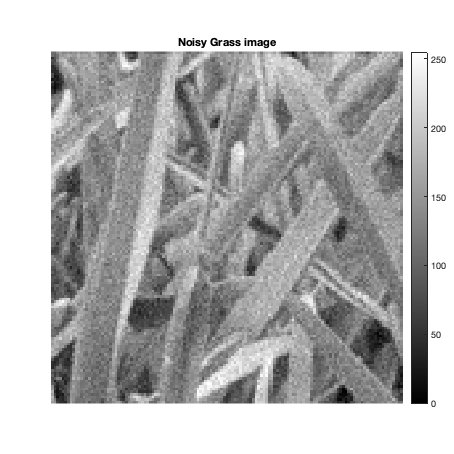
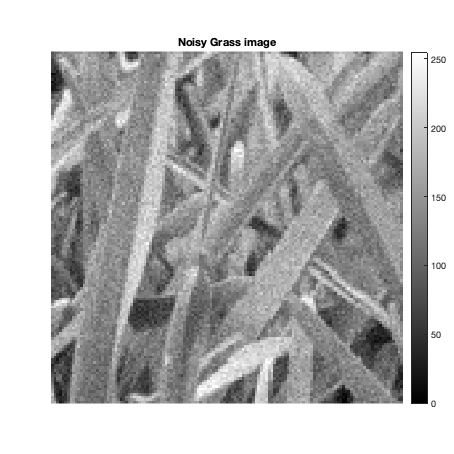
generated report for Q3

diff --git a/A2/3/code/html/myMainScript.html b/A2/3/code/html/myMainScript.html
@@ -76,44 +76,46 @@ noisy_im = myGaussianNoise(im);
 h = 13.5;
 [mask, filtered_im] = myPatchBasedFiltering(noisy_im, h);
 showBest(<span class="string">'Grass'</span>, im, noisy_im, filtered_im, mask);
-</pre><pre class="codeoutput">RMSD of noisy image = 11.766877
-RMSD of filtered image = 7.424392
+</pre><pre class="codeoutput">RMSD of noisy image = 11.823007
+RMSD of filtered image = 7.438951
 </pre><img vspace="5" hspace="5" src="myMainScript_01.png" alt=""> <img vspace="5" hspace="5" src="myMainScript_02.png" alt=""> <img vspace="5" hspace="5" src="myMainScript_03.png" alt=""> <img vspace="5" hspace="5" src="myMainScript_04.png" alt=""> <h2 id="4">Best values</h2><pre class="codeinput"><span class="comment">% For grass image, h = 13.5</span>
 <span class="comment">% optimal rmsd = 7.35</span>
 <span class="comment">% 0.9*h -&gt; rmsd = 7.79</span>
 <span class="comment">% 1.1*h -&gt; rmsd = 7.52</span>
 
 toc;
-</pre><pre class="codeoutput">Elapsed time is 28.364374 seconds.
-</pre><h2 id="5">Barbara image</h2><pre class="codeinput">im = load(<span class="string">"../data/barbara.mat"</span>).imageOrig;
-im = double(im) ;
+</pre><pre class="codeoutput">Elapsed time is 26.717334 seconds.
+</pre><h2 id="5">Barbara image</h2><pre class="codeinput">im = load(<span class="string">"../data/barbara.mat"</span>);
+im = double(im.imageOrig) ;
 im = myBlur(im);
 noisy_im = myGaussianNoise(im);
 h = 5.5;
 [mask, filtered_im] = myPatchBasedFiltering(noisy_im, h);
 showBest(<span class="string">'Barbara'</span>, im, noisy_im, filtered_im, mask);
-</pre><pre class="codeoutput error">Error: Functions cannot be indexed using {} or . indexing.
-
-Error in myMainScript (line 34)
-im = load("../data/barbara.mat").imageOrig;
-</pre><h2 id="6">Best values</h2><pre class="codeinput"><span class="comment">% Barbara, h = 5.5</span>
+</pre><pre class="codeoutput">RMSD of noisy image = 4.731886
+RMSD of filtered image = 2.707634
+</pre><img vspace="5" hspace="5" src="myMainScript_05.png" alt=""> <img vspace="5" hspace="5" src="myMainScript_06.png" alt=""> <img vspace="5" hspace="5" src="myMainScript_07.png" alt=""> <img vspace="5" hspace="5" src="myMainScript_08.png" alt=""> <h2 id="6">Best values</h2><pre class="codeinput"><span class="comment">% Barbara, h = 5.5</span>
 <span class="comment">% optimal rmsd = 2.69</span>
 <span class="comment">% 0.9*h -&gt; rmsd = 2.74</span>
 <span class="comment">% 1.1*h -&gt; rmsd = 2.73</span>
 
 toc;
+</pre><pre class="codeoutput">Elapsed time is 118.812019 seconds.
 </pre><h2 id="7">Honeycomb image</h2><pre class="codeinput">im = imread(<span class="string">"../data/honeyCombReal.png"</span>);
 im = double(im) ;
 noisy_im = myGaussianNoise(im);
 h = 15.0;
 [mask, filtered_im] = myPatchBasedFiltering(noisy_im, h);
 showBest(<span class="string">'Honeycomb'</span>, im, noisy_im, filtered_im, mask);
-</pre><h2 id="8">Best values</h2><pre class="codeinput"><span class="comment">% Honeycomb, h = 15.0</span>
+</pre><pre class="codeoutput">RMSD of noisy image = 12.690202
+RMSD of filtered image = 7.603023
+</pre><img vspace="5" hspace="5" src="myMainScript_09.png" alt=""> <img vspace="5" hspace="5" src="myMainScript_10.png" alt=""> <img vspace="5" hspace="5" src="myMainScript_11.png" alt=""> <img vspace="5" hspace="5" src="myMainScript_12.png" alt=""> <img vspace="5" hspace="5" src="myMainScript_13.png" alt=""> <img vspace="5" hspace="5" src="myMainScript_14.png" alt=""> <h2 id="8">Best values</h2><pre class="codeinput"><span class="comment">% Honeycomb, h = 15.0</span>
 <span class="comment">% optimal rmsd = 7.54</span>
 <span class="comment">% 0.9*h -&gt; rmsd = 7.81</span>
 <span class="comment">% 1.1*h -&gt; rmsd = 7.75</span>
 
 toc;
+</pre><pre class="codeoutput">Elapsed time is 212.298085 seconds.
 </pre><h2 id="9">Summary</h2><pre class="codeinput"><span class="comment">% For grass image, h = 13.5</span>
 <span class="comment">% optimal rmsd = 7.35</span>
 <span class="comment">% 0.9*h -&gt; rmsd = 7.79</span>
@@ -130,6 +132,7 @@ toc;
 <span class="comment">% 1.1*h -&gt; rmsd = 7.75</span>
 
 toc;
+</pre><pre class="codeoutput">Elapsed time is 212.305369 seconds.
 </pre><p class="footer"><br><a href="https://www.mathworks.com/products/matlab/">Published with MATLAB&reg; R2019a</a><br></p></div><!--
 ##### SOURCE BEGIN #####
 %% MyMainScript
@@ -165,8 +168,8 @@ toc;
 
 %% Barbara image
 
-im = load("../data/barbara.mat").imageOrig;
-im = double(im) ;
+im = load("../data/barbara.mat");
+im = double(im.imageOrig) ;
 im = myBlur(im);
 noisy_im = myGaussianNoise(im);
 h = 5.5;

diff --git a/A2/3/code/myMainScript.m b/A2/3/code/myMainScript.m
@@ -31,8 +31,8 @@ toc;
 
 %% Barbara image
 
-im = load("../data/barbara.mat").imageOrig;
-im = double(im) ;
+im = load("../data/barbara.mat");
+im = double(im.imageOrig) ;
 im = myBlur(im);
 noisy_im = myGaussianNoise(im);
 h = 5.5;
